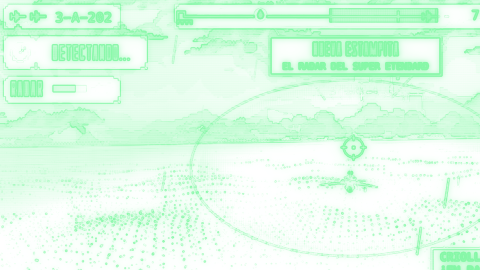
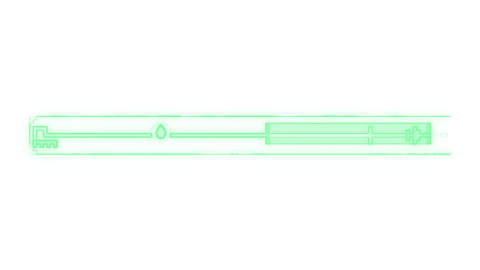
el Invincible se encuentra en la zona azul: con el radar la chance sube a lo largo de la zona y al final queda ubicado solo (ya se ve); el eco del radar que muestra el nombre tambien lo ubica; la zona termina a mitad de la ventana de lanzamiento para que siempre se pueda lanzar. La tarjeta de EL INV

diff --git a/src/game.js b/src/game.js
@@ -3023,26 +3023,34 @@ import { apodoAvion } from './data/apodos_aviones.js';
     // (23/11, el autor: "si sube por encima del radar enemigo la probabilidad aumenta muchisimo, pero tiene que jugar contra
     // el tiempo que tarda el radar enemigo en encontrarlo"): arriba del techo (`run.radarVisto`, que es tambien lo que carga
     // la barra de deteccion) el dado sale ARRIBA veces mas facil, con un piso de ARRIBA_MIN — y mientras tanto te pintan.
-    const BUSCA = { ANTES: 0.07, P0: 0.06, P1: 0.55, ARRIBA: 4, ARRIBA_MIN: 0.45 };
-    const buscaZona = () => (zonaLanzamiento() && objectiveDist > 0 ? [lanzaM() - BUSCA.ANTES * objectiveDist, cierreM()] : null);
+    // (23/11, el autor: "no lo encontre nunca"): el radar dura 4 s y recarga en 25, asi que en la zona son 4 tiradas; con
+    // P0 0.06 casi nunca salia al entrar. Ahora P0 0.2 → P1 0.65
+    // (…y despues, 23/11, el autor: "la idea del radar es encontrarlo ANTES… si llego al limite de la zona azul ya lo encuentro
+    // porque literalmente LO VEO"): la chance sube a lo largo de la zona (P0 → 1) y en su FIN queda ubicado solo, con o sin
+    // radar. Por eso la zona ya no termina en el cierre del lanzamiento sino a FIN de la ventana: al verlo, todavia se lanza.
+    const BUSCA = { ANTES: 0.07, P0: 0.12, ARRIBA: 4, ARRIBA_MIN: 0.45, FIN: 0.5 };
+    const buscaZona = () => (zonaLanzamiento() && objectiveDist > 0 ? [lanzaM() - BUSCA.ANTES * objectiveDist, lanzaM() + (cierreM() - lanzaM()) * BUSCA.FIN] : null);
     let buscaAcc = 0;
     function pasoBuscaExo(dt) {
       const z = buscaZona();
+      // AL FINAL DE LA ZONA YA SE VE: ubicado solo, con el radar apagado o sin radar
+      if (z && run.soloExocet && !run.exoUbicado && S.state === 'play' && run.dist >= z[1]) { ubicarExo(); return; }
       if (!z || !run.soloExocet || run.exoUbicado || S.state !== 'play' || !radarP.on || run.dist < z[0] || run.dist > z[1]) { buscaAcc = 0; return; }
       buscaAcc += dt;
       while (buscaAcc >= 1) {
         buscaAcc -= 1;
         const u = (run.dist - z[0]) / Math.max(1, z[1] - z[0]);
-        let p = BUSCA.P0 + (BUSCA.P1 - BUSCA.P0) * u;
+        let p = BUSCA.P0 + (1 - BUSCA.P0) * u * u;   // sube despacio y al final es seguro
         if (run.radarVisto) p = Math.min(0.95, Math.max(BUSCA.ARRIBA_MIN, p * BUSCA.ARRIBA));
-        if (Math.random() < p) {
-          run.exoUbicado = true; buscaAcc = 0;
-          radarP.marcaT = Math.max(radarP.marcaT, 6); radarP.ecoT = 0;
-          beep(1250, 0.08, 'sine', 0.05, 300); setTimeout(() => beep(1500, 0.1, 'sine', 0.05, 300), 110);
-          cartel(T('exo_ubicado'), '#ff4a3a', T('exo_ubicado_sub', { n: nombreObjetivo() }));
-          return;
-        }
+        if (Math.random() < p) { ubicarExo(); return; }
       }
+    }
+    /** BLANCO UBICADO: la flecha roja, el punto del radar, la brujula — y el Exocet ya se puede lanzar */
+    function ubicarExo() {
+      run.exoUbicado = true; buscaAcc = 0;
+      radarP.marcaT = Math.max(radarP.marcaT, 6); radarP.ecoT = 0;
+      beep(1250, 0.08, 'sine', 0.05, 300); setTimeout(() => beep(1500, 0.1, 'sine', 0.05, 300), 110);
+      cartel(T('exo_ubicado'), '#ff4a3a', T('exo_ubicado_sub', { n: nombreObjetivo() }));
     }
     /** Lo que la cinta de arriba necesita de la busqueda: [desde, hasta] en fraccion del objetivo y si se esta buscando. */
     const buscaCinta = () => { const z = buscaZona(); return z && run.soloExocet && !run.exoUbicado ? { f0: z[0] / objectiveDist, f1: z[1] / objectiveDist, on: radarP.on && run.dist >= z[0] && run.dist <= z[1] } : null; };
@@ -10353,8 +10361,11 @@ import { apodoAvion } from './data/apodos_aviones.js';
         // LA DETECCION (16/10): detecting suena desde que empieza hasta que quedan marcadas las flechitas
         if (rp.det === 'empieza') sfxOne('radarDetecta');
         else if (rp.det === 'termina') sfxStop('radarDetecta', 0.25);
-        if (rp.sig === 'eco' && run.soloExocet && !buscaZona()) run.exoUbicado = true;   // (23/11) ya se puede lanzar el Exocet (con zona de busqueda, lo decide pasoBuscaExo)
-        if (rp.sig === 'eco') { beep(1250, 0.08, 'sine', 0.05, 300); cartel(T('radar_eco'), '#5ab4ff', null, { alerta: true }); }
+        // (23/11, el autor: "si ya aparece el nombre es porque lo encontre"): el ECO del radar —el que marca el nombre del
+        // buque— UBICA el blanco del Exocet siempre, tambien en la zona de busqueda (antes ahi solo valia el dado)
+        if (rp.sig === 'eco' && run.soloExocet && !run.exoUbicado && buscaZona()) ubicarExo();   // (con su cartel de BLANCO UBICADO)
+        else if (rp.sig === 'eco') {
+          if (run.soloExocet) run.exoUbicado = true; beep(1250, 0.08, 'sine', 0.05, 300); cartel(T('radar_eco'), '#5ab4ff', null, { alerta: true }); }
         else if (rp.sig === 'ecoAereo') { beep(1100, 0.08, 'sine', 0.05, 250); cartel(T('radar_eco_aereo'), '#5ab4ff', null, { alerta: true }); }
         else if (rp.sig === 'sinCarga') { beep(220, 0.1, 'square', 0.04, -60); cartel(T('radar_sin'), P.dim); }
         else if (rp.sig === 'bajo') cartel(T('radar_bajo'), '#5ab4ff', T('radar_bajo_sub')); }

diff --git a/src/data/libro_vuelo.js b/src/data/libro_vuelo.js
@@ -523,9 +523,9 @@ export const LIBRO_SCENES = {
     // su radar la ubicacion del Invincible evitando que el radar enemigo los encuentre; una vez encontrado debe configurar
     // el lanzamiento de manera correcta y una vez lanzado, huir… con capturas de UI"): las ui_* son capturas del juego
     // pasadas al fosforo (tools/blender/laminas_ui.py)
-    ['SUPER ÉTENDARD. Lleva el Exocet y tiene que encontrar al Invincible con su radar. En la zona azul de la barra de arriba lo prendés: si subís lo encontrás antes, pero su radar te encuentra a vos.', 'ui_busca', 'S. ÉTENDARD 1 · BUSCAR CON RADAR'],
-    ['Cuando aparece BLANCO UBICADO, la flecha roja marca dónde está y a cuántos km. Si te pintó el Sea Dart, abajo al ras: que no te encuentren antes de lanzar.', 'ui_ubicado', 'S. ÉTENDARD 2 · BLANCO UBICADO'],
-    ['En la zona de lanzamiento, mira de bomba y soltar: se abre el PULSO. Cargás distancia, rumbo y potencia. Bien cargado, el misil va solo; mal cargado, se pierde en el mar.', 'ui_pulso', 'S. ÉTENDARD 3 · CARGAR EL EXOCET'],
+    ['SUPER ÉTENDARD. Llevás el Exocet y tenés que encontrar al Invincible. En la barra de arriba, la zona azul es donde está: al final de la zona ya lo ves. Con el radar lo encontrás ANTES, y cuanto más avanzás, más fácil. Si subís, es mucho más fácil, pero te ven a vos.', 'ui_busca', 'S. ÉTENDARD 1 · BUSCAR CON RADAR'],
+    ['Cuando el radar lo encuentra, aparece sobre el buque su nombre, a cuántos km está y una flecha roja: volá hacia ahí. Si el Sea Dart te detecta, bajá al ras y lanzá cuanto antes.', 'ui_ubicado', 'S. ÉTENDARD 2 · BLANCO UBICADO'],
+    ['Ya cerca del buque, apuntá y soltá como una bomba: se abre el lanzamiento. Apretá las flechas en el orden en que aparecen; así cargás distancia, rumbo y potencia. Bien cargado, el Exocet va solo al buque; si le errás, se pierde en el mar.', 'ui_pulso', 'S. ÉTENDARD 3 · CARGAR EL EXOCET'],
     ['Lanzado el Exocet, a huir: das la vuelta al ras y volvés. Del misil se encargan los A-4C.', 'supere_exocet', 'S. ÉTENDARD 4 · HUIR'],
     // EL A-4C, EN DOS (23/11, el autor: "escoltas, debian proteger a toda costa a los Super Etendard y luego al Exocet…
     // seguir al misil lado a lado la mayor distancia posible… eliminando todo lo que podria colisionar con el")

diff --git a/electron/main.js b/electron/main.js
@@ -7,6 +7,10 @@ const fs = require('fs');
 // EL MODO DEV (8/10): `yarn start` -> dev (sin el arranque del fichin, audio en mute, con el MODO DEV
 // en el menu); `yarn start --prod` -> el juego de verdad. Empaquetado es siempre el de verdad.
 const DEV = !app.isPackaged && !process.argv.includes('--prod');
+// LA VERSION FULL (sin PROXIMAMENTE): `--full` al correrlo, o FIJA en el empaquetado con `rasanteFull` en el package.json
+// que mete electron-builder (`npm run dist:amigos`: los builds de acceso anticipado para amigos, 23/11)
+let FULL = process.argv.includes('--full');
+try { if (require('../package.json').rasanteFull) FULL = true; } catch (e) { }
 
 // EL ICONO DEL JUEGO (12/10, el autor: "quitar el icono de Electron"). El empaquetado lo toma de build/
 // (electron-builder: icon.icns / icon.ico / icon.png); esto es el de EJECUCION — la ventana en Windows y
@@ -55,7 +59,7 @@ function createWindow() {
     webPreferences: {
       preload: path.join(__dirname, 'preload.js'),
       // lo lee el preload (window.RASANTE_DEV / RASANTE_FULL: `--full`, la version sin PROXIMAMENTE)
-      additionalArguments: [...(DEV ? ['--rasante-dev'] : []), ...(process.argv.includes('--full') ? ['--rasante-full'] : [])],
+      additionalArguments: [...(DEV ? ['--rasante-dev'] : []), ...(FULL ? ['--rasante-full'] : [])],
       contextIsolation: true,     // seguridad estándar
       nodeIntegration: false,     // el renderer NO tiene acceso a Node
       // El juego arranca la música al cargar, sin esperar un gesto. Electron YA permite autoplay

diff --git a/src/data/sfx.js b/src/data/sfx.js
@@ -170,7 +170,7 @@ export const SFX_DEF = {
   // EL EXOCET QUE SALE (autor, 16/10): el motor del misil al lanzarlo, en las dos cinematicas (pega y errado)
   exocetSale: { f: ['ammo/exocet_sound.mp3'], v: 0.75, offset: 0.14, fo: 0.4 },
   // (23/11, el autor) la tecla del Exocet sin blanco ubicado o fuera de zona. NO empieza con 'ex': esas cuentan como explosiones
-  errorExocet: { f: ['ammo/exocet_error.mp3'], v: 0.8 },
+  errorExocet: { f: ['ammo/exocet_error.mp3'], v: 0.4 },   // (23/11, el autor: "esta ALTISIMO… la mitad mas bajo": 0.8 → 0.4)
   lanzaMisil: { f: ['ammo/lauching_missil.mp3', 'ammo/lauching_missil_2.mp3'], v: 0.3, offset: 0.14 },
   radarVerdeInicio: { f: ['radars/green_radar_start.mp3'], v: 0.7, offset: 0.18 },
 };

diff --git a/tools/blender/laminas_ui.py b/tools/blender/laminas_ui.py
@@ -14,16 +14,26 @@ from armar_laminas import fosforo, reducir, ESC, W, H, SALIDA, AQUI
 
 CAPTURAS = os.path.join(AQUI, 'out', 'laminas_ui')
 K = 1.28   # las cajas se midieron en la captura vista a 2000 px de ancho; la captura es de 2560
+# (23/11, el autor: "no es claro, mostrar la barra de objetivo nomas con la zona"): las tres del Super Etendard son UN
+# SOLO ELEMENTO del HUD, agrandado y centrado en negro (`solo`), no la pantalla entera
 LAMINAS = {
-    'ui_busca':   ('su_busca',   [250, 0, 1250, 562]),     # la zona azul de la cinta, el radar prendido, "el horizonte lo tapa"
-    'ui_ubicado': ('su_ubicado', [250, 0, 1250, 562]),     # BLANCO UBICADO: la flecha roja con los km, y el Sea Dart que te pinta
-    'ui_pulso':   ('su_pulso',   [600, 0, 1720, 630]),     # el PULSO del Exocet: distancia, rumbo, potencia
+    'ui_busca':   ('su_busca',   [612, 6, 1190, 62], True),     # la BARRA DEL OBJETIVO con la zona azul (el radar)
+    'ui_ubicado': ('su_ubicado', [855, 182, 1135, 282], True),  # BLANCO UBICADO: el nombre, los km y la flecha roja
+    'ui_pulso':   ('su_pulso',   [612, 8, 1720, 410], True),    # el PULSO: el panel distancia/rumbo/potencia y las flechas
     'ui_escolta': ('a4_escolta', [500, 60, 1400, 566]),   # los A-4C a los costados del Exocet, rumbo al portaaviones
 }
 
-def armar(nombre, cap, caja):
+MARGEN = 0.88   # (solo) lo que ocupa el elemento de la lamina, como mucho, en cada eje
+
+def armar(nombre, cap, caja, solo=False):
     x0, y0, x1, y1 = [round(v * K) for v in caja]
-    c = Image.open(os.path.join(CAPTURAS, cap + '.png')).convert('RGB').crop((x0, y0, x1, y1)).resize((W * ESC, H * ESC), Image.LANCZOS)
+    c = Image.open(os.path.join(CAPTURAS, cap + '.png')).convert('RGB').crop((x0, y0, x1, y1))
+    if solo:
+        k = min(W * ESC * MARGEN / c.width, H * ESC * MARGEN / c.height)
+        cw, ch = round(c.width * k), round(c.height * k)
+        c = c.resize((cw, ch), Image.LANCZOS)
+    else:
+        c = c.resize((W * ESC, H * ESC), Image.LANCZOS)
     g = c.convert('L')
     rgb = np.asarray(c, np.float32) / 255
     # LO AZUL DEL HUD (la zona de busqueda en la cinta, el radar): en gris se perdia; sale lleno
@@ -37,6 +47,14 @@ def armar(nombre, cap, caja):
     linea = np.clip((borde - 0.035) * 9, 0, 1)
     # el RELLENO: la luz de la captura (el texto claro del HUD sale lleno, el cielo apenas)
     relleno = np.maximum(np.clip((a - 0.25) * 1.6, 0, 1), azul)
+    if solo:
+        relleno = np.maximum(np.clip((a - 0.55) * 2.2, 0, 1), azul)   # solo lo que brilla (el HUD), no las nubes de fondo
+        # al centro de la lamina, en negro (el canto del recorte no dibuja linea: se procesa antes de pegarlo)
+        L = np.zeros((H * ESC, W * ESC), np.float32); R = np.zeros_like(L)
+        ox, oy = (W * ESC - c.width) // 2, (H * ESC - c.height) // 2
+        linea[:2, :] = linea[-2:, :] = 0; linea[:, :2] = linea[:, -2:] = 0
+        L[oy:oy + c.height, ox:ox + c.width] = linea; R[oy:oy + c.height, ox:ox + c.width] = relleno
+        linea, relleno = L, R
     fosforo(reducir(linea), reducir(relleno), k_relleno=0.45, k_brillo=0.4, radio=2.5).save(os.path.join(SALIDA, nombre + '.png'))
     print('ok', nombre)
 
